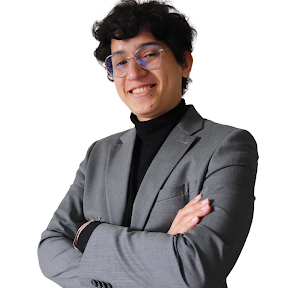
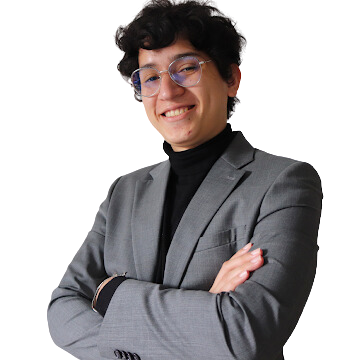
Add profile image and change aboutme description.

diff --git a/index.html b/index.html
@@ -41,22 +41,25 @@
           <div class="section-description">
             <h1>About Me</h1>
 
-            <p>
-              I am a Physicist with additional studies in backend web
-              development with Python, Django, Flask, FastAPI, troubleshooting
-              (algorithms) and SQL; I master frontend development technologies
-              such as Html, CSS and JavaScript. I also use other technologies
-              such as Linux, Git and AWS, which allow me to easily adapt to any
-              development team. I am motivated by challenges that allow me to
-              develop and grow professionally, while allowing me to present
-              robust and innovative solutions that contribute to business
-              objectives.
-            </p>
+            <ul id="list-aboutme">
+              <li>🔭 I’m currently working on my personal portfolio.</li>
+              <li>👯 I’m looking to collaborate on any open source feature.</li>
+              <li>
+                🌱 I’m currently learnings Django, algorithms, Linux and Backend
+                best practices.
+              </li>
+              <li>
+                ⚡ I'm a physicist passionate about web development and
+                technology.
+              </li>
+              <li>❤ I love learning about technology, math and science.</li>
+            </ul>
+            <p></p>
           </div>
-          <div class="section-image">
+          <div class="section-image" id="about-me-image-container">
             <img
               id="about-me-image"
-              src="static/images/slytherin/about-me-logo.svg"
+              src="static/images/profile.png"
               alt="profile"
             />
           </div>

diff --git a/static/css/style.css b/static/css/style.css
@@ -51,12 +51,24 @@ main {
 }
 
 .section-image {
-  width: 38%;
   display: flex;
   align-items: center;
+  justify-content: center;
+  border-radius: 100%;
+  background: radial-gradient(
+    white,
+    var(--background-experience-text-box-color)
+  );
+  width: 10px;
+  height: 10px;
 }
+.section-image img {
+  object-fit: fill;
+  border-radius: 100%;
+}
+
 #about-me-image {
-  padding: 50px 0px 50px 50px;
+  padding: 0px;
 }
 .section-description {
   width: 58%;
@@ -85,7 +97,7 @@ h2 {
   margin: 0;
 }
 section {
-  margin-bottom: 50px;
+  /* margin-bottom: 50px; */
   display: flex;
   justify-content: space-between;
 }
@@ -451,4 +463,12 @@ a {
   background: #163b23;
   margin: 3px auto;
   border-radius: 10px;
+}
+#list-aboutme {
+  padding: 0px 0px 0px 0px;
+}
+
+#list-aboutme li {
+  list-style-type: none;
+  padding: 5px 0px;
 }

diff --git a/script.js b/script.js
@@ -47,3 +47,9 @@ card.addEventListener("mouseout", (event) => {
     rotateY(0)
   `;
 });
+let aboutmeDescription = document.getElementById("about-me");
+let heightAboutMe = aboutmeDescription.clientHeight;
+let aboutMeImageContainer = document.getElementById("about-me-image-container");
+console.log(heightAboutMe);
+aboutMeImageContainer.style.width = "" + heightAboutMe + "px";
+aboutMeImageContainer.style.height = "" + heightAboutMe + "px";
